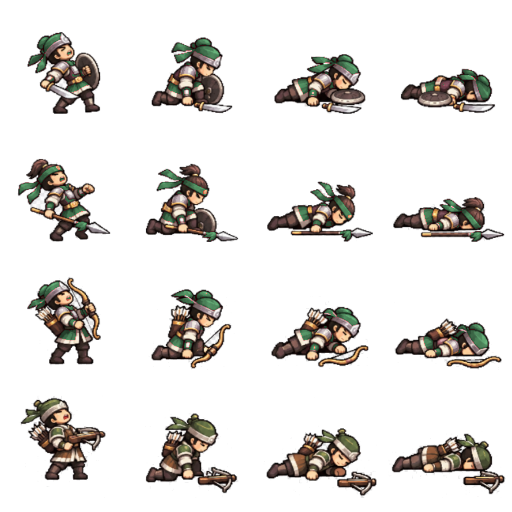
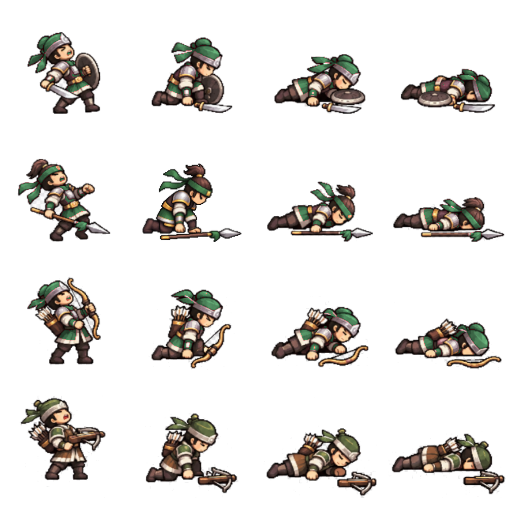
Fix spearman death frame showing a stray shield
Redrawn kneeling frame replaces the generated one that wrongly
included a round shield.

Changed region(s): [[0.2812, 0.3125, 0.4688, 0.4688]]

diff --git a/public/assets/troop-deaths/GENERATION_PROMPTS.md b/public/assets/troop-deaths/GENERATION_PROMPTS.md
@@ -7,6 +7,6 @@
 
 - a：刀盾兵 / 长枪兵 / 弓箭兵 / 连弩兵；b：重盾兵 / 轻骑兵（连人带马）/ 精锐戟兵 / 军医。
 - 每行：中招后仰 → 单膝跪地 → 侧倒 → 平躺（兵器落在身旁），朝右，游戏内朝左镜像。
-- 已知：a 组长枪兵第 2 帧误画一面圆盾。
+- a 组长枪兵第 2 帧原图误画圆盾，已由 ChatGPT 单独重画（`assets/source/troop-deaths-raw/a-frame5.png`，用户确认保存），脚本按原帧人物高度替换（OVERRIDES）。
 
 游戏内：src/systems/AllyCorpses.ts（尸体留 60 秒战斗时间后 1 秒淡出，最多 24 具）。
